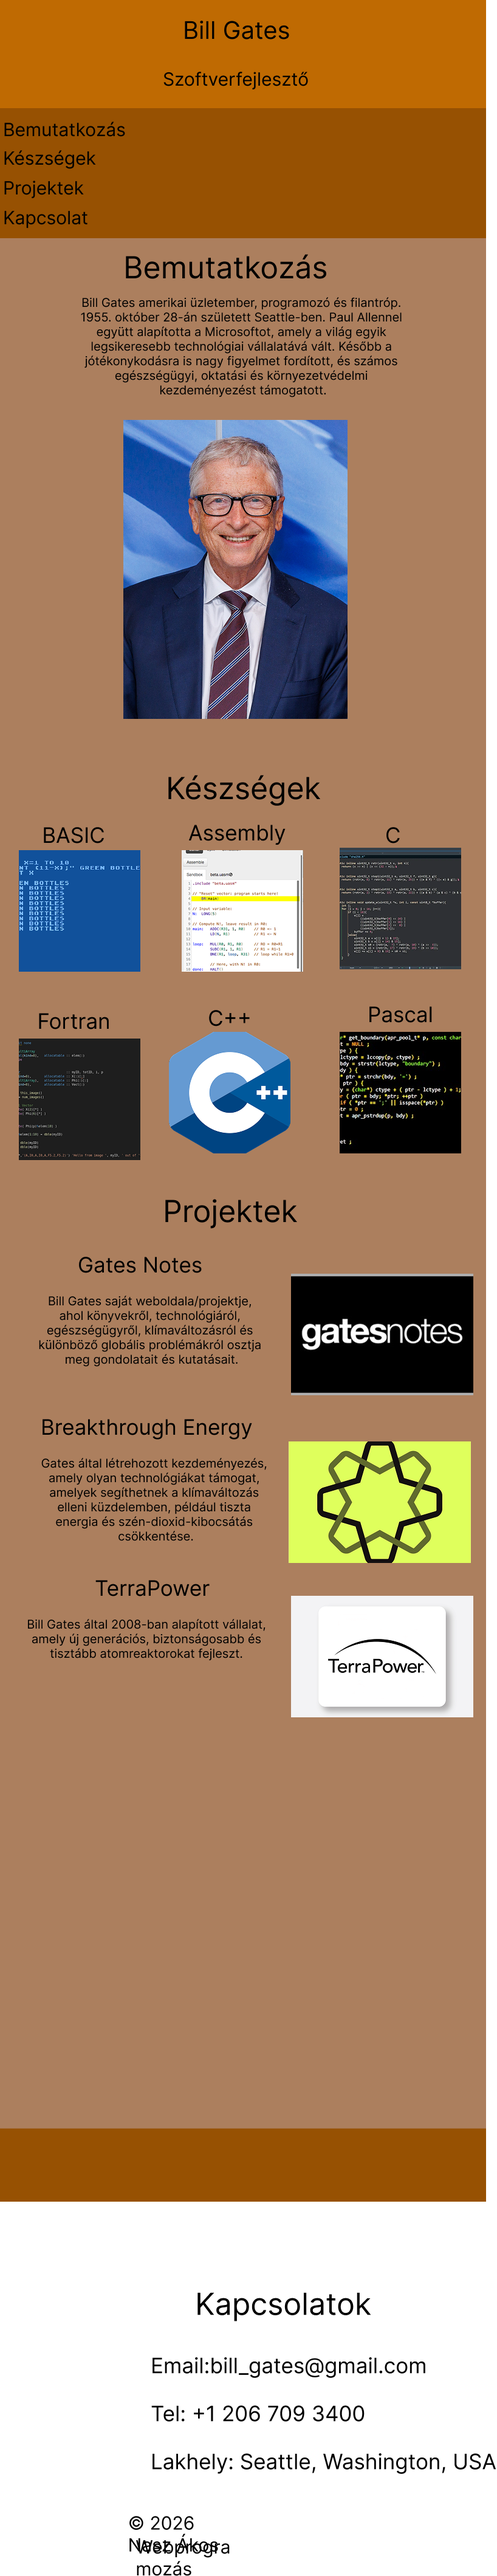
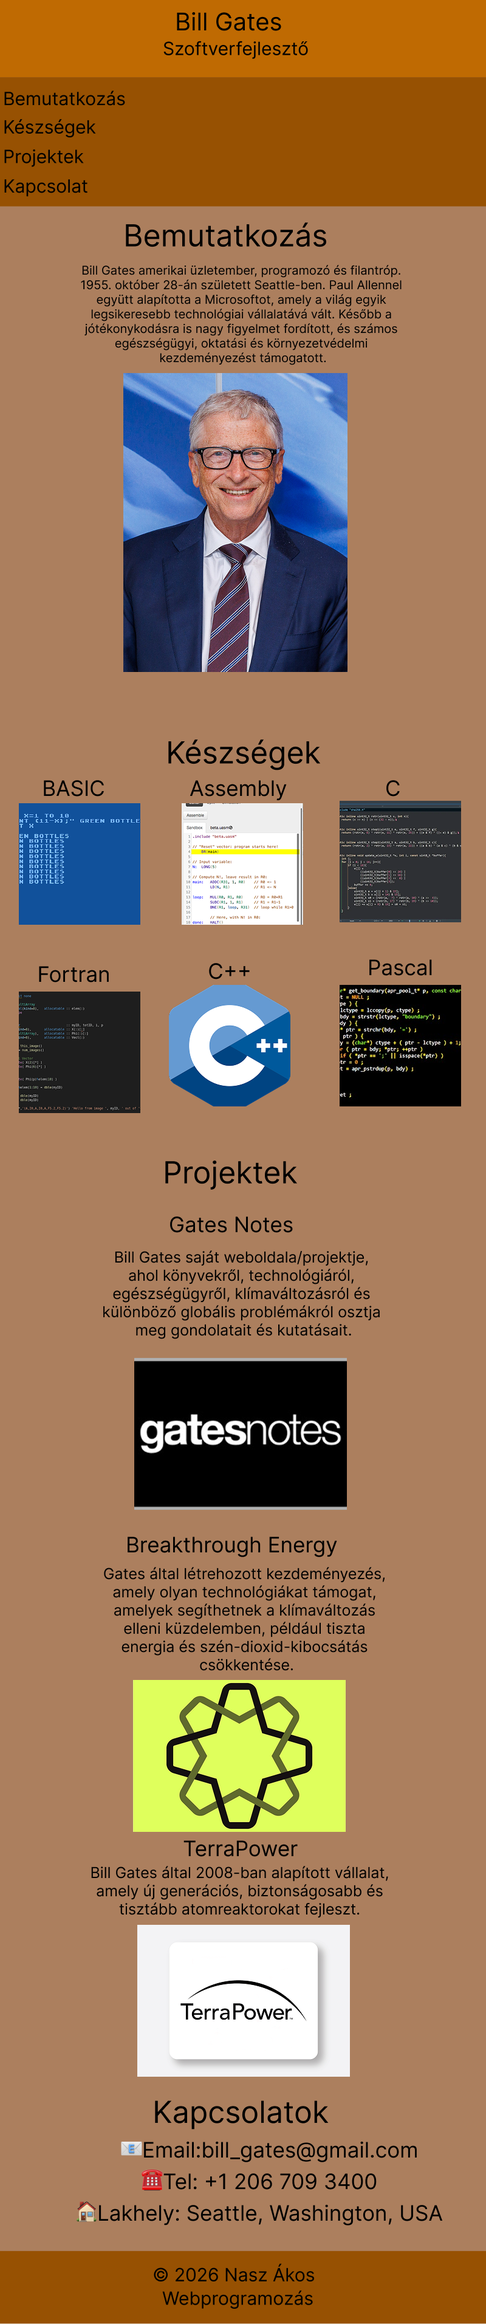
800px kesz

diff --git a/index.html b/index.html
@@ -1,0 +1,11 @@
+<!DOCTYPE html>
+<html lang="en">
+<head>
+    <meta charset="UTF-8">
+    <meta name="viewport" content="width=device-width, initial-scale=1.0">
+    <title>Document</title>
+</head>
+<body>
+    
+</body>
+</html>
